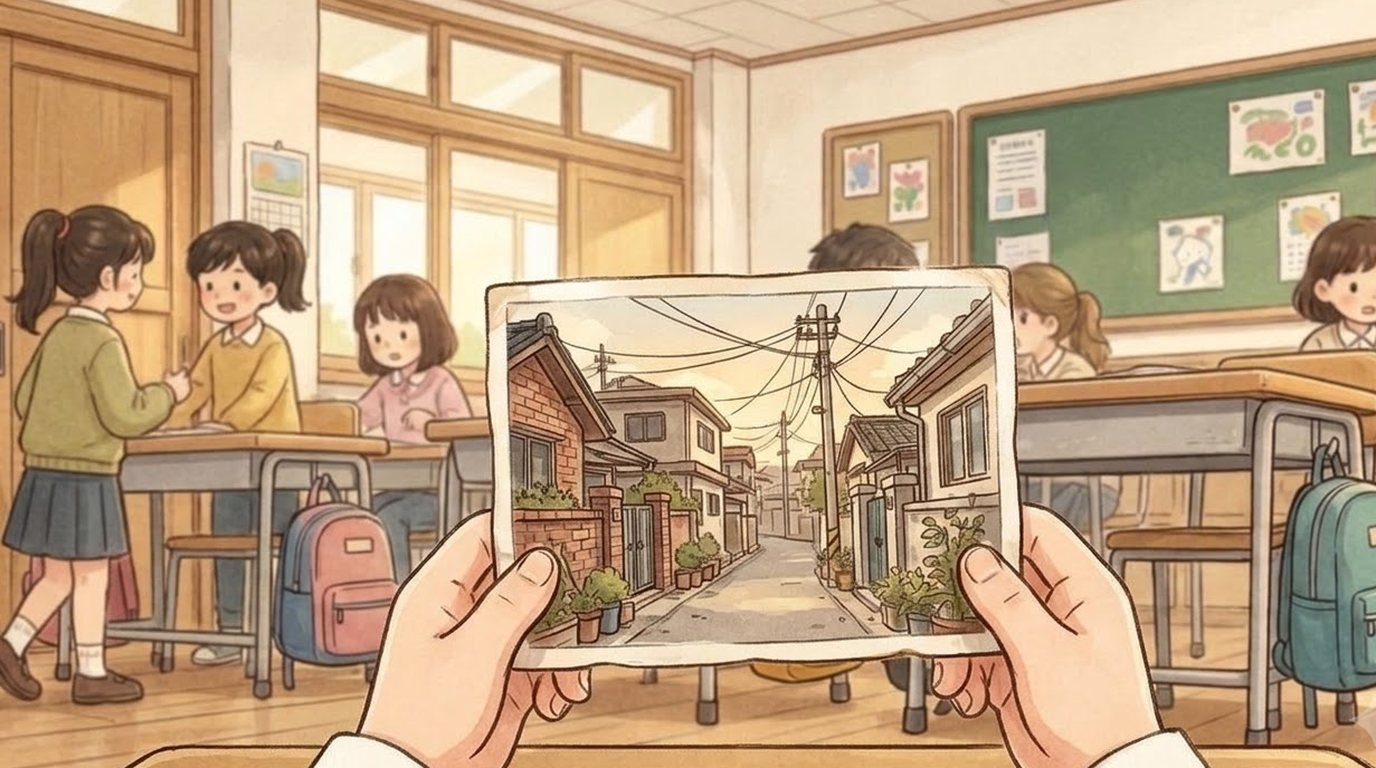
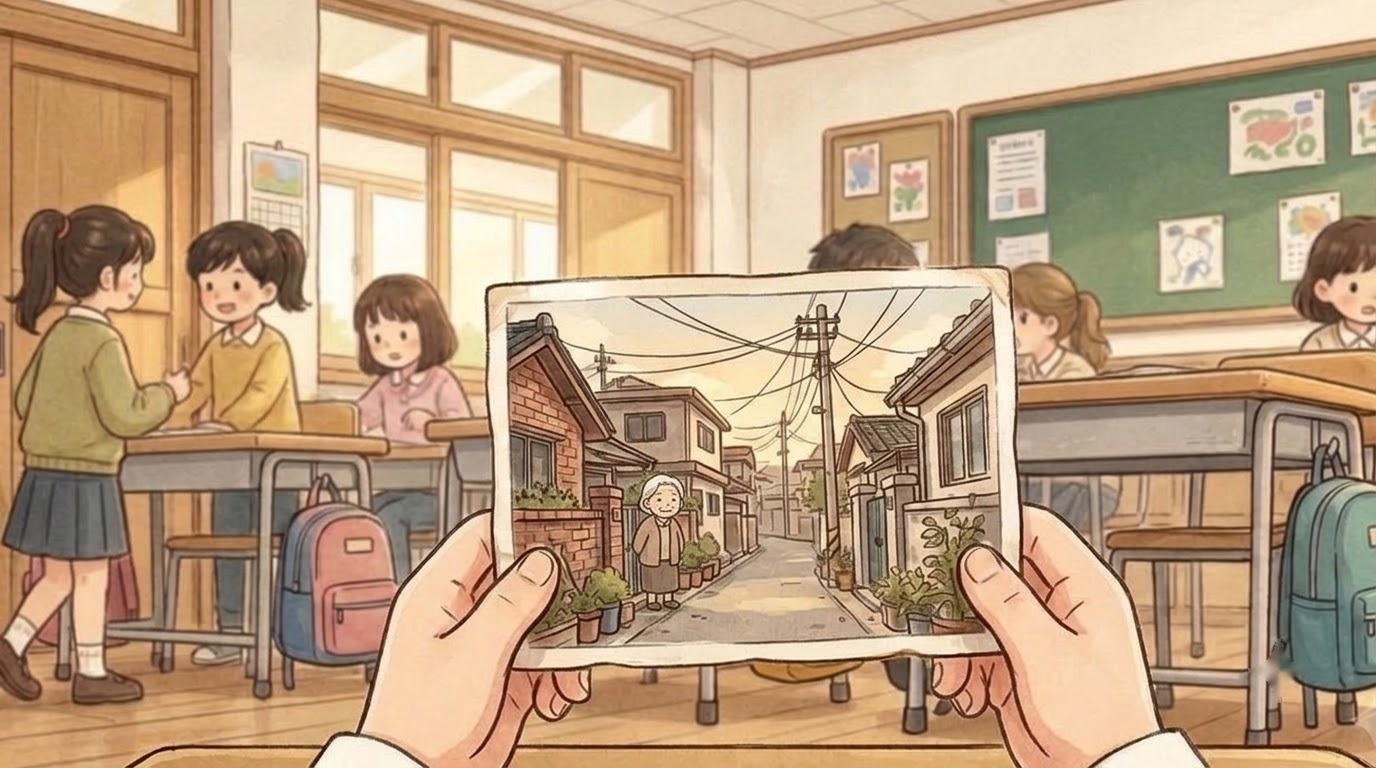
하람 8일차 고향 사진(haram_d08_photo): 사진 속 할머니 집 대문 앞에 할머니 추가(「저분이 할머니야?」, 그림 세션 Flow·메인 비교)

diff --git a/index.html b/index.html
@@ -119,14 +119,14 @@ body,button{word-break:keep-all;overflow-wrap:break-word}
 <div id="fader"></div>
 <script>
 // same address, newest version: if the page this phone has kept is older than the one online, fetch the new one and reopen
-const BUILD='1109102517';
+const BUILD='1109103443';
 try{fetch(location.pathname,{cache:'no-store'}).then(r=>r.text()).then(t=>{const m=t.match(/const BUILD='(\d+)'/);if(m&&m[1]!==BUILD&&sessionStorage.getItem('upd')!==m[1]){sessionStorage.setItem('upd',m[1]);fetch(location.pathname,{cache:'reload'}).then(()=>location.reload())}}).catch(()=>{})}catch(e){}
 </script>
-<script src="i18n.js?v=1109102517"></script>
-<script src="i18n_prologue_v2.js?v=1109102517"></script>
-<script src="day2/i18n_engine.js?v=1109102517"></script>
-<script src="day2/data.js?v=1109102517"></script>
-<script src="day3/data.js?v=1109102517"></script>
+<script src="i18n.js?v=1109103443"></script>
+<script src="i18n_prologue_v2.js?v=1109103443"></script>
+<script src="day2/i18n_engine.js?v=1109103443"></script>
+<script src="day2/data.js?v=1109103443"></script>
+<script src="day3/data.js?v=1109103443"></script>
 <script>
 // ---------- data ----------
 const MW=1672,MH=941,KID=180;
@@ -569,36 +569,36 @@ function pickHero(){const m=document.getElementById('modal'),c=document.getEleme
  c.innerHTML=`<h2>${tr('전학생 반장되기')}</h2><p>${tr('한국말이 아직 서툰 전학생,<br>반장 선거에 나가다.')}</p><p style="margin-top:14px">${tr('누구로 할까요?')}</p>${(()=>{const s=loadSave();return s&&s.day>=2&&s.mode===UI+'-'+LANG?`<p><button class="big" id="cont">${tr('{n}일차부터 이어 하기').replace('{n}',s.day)}</button></p>`:''})()}<div class="pick heroes"><button data-h="hero_f"><img src="faces/hero_f_smile.jpg" alt="여자 주인공">${heroName(1)}</button><button data-h="hero_m"><img src="faces/hero_m_smile.jpg" alt="남자 주인공">${heroName(0)}</button></div>`;
  m.classList.add('on');{const cb=document.getElementById('cont');if(cb)cb.onclick=()=>{const s=loadSave();HERO=s.hero;Object.assign(HEART,s.heart||{});(s.found||[]).forEach(k=>FOUND.add(k));HEART_D1={...HEART};chime();(typeof contGame==='function'?contGame(s):startDay(Math.min(s.day,Object.keys(window.D3||{}).length?3:2)))}}c.querySelectorAll('.pick button').forEach(b=>b.onclick=()=>{HERO=b.dataset.h;m.classList.remove('on');chime();bgm('day');load('home_am');say([['nar','','이사 온 다음 날 아침. 아직 풀지 못한 상자들이 쌓여 있다.'],['think','sad','(오늘부터 새 학교야. 여기 말도 아직 서툰데…….)'],['think','smile','({m}한테 인사하고 학교 가야지.)']],morning)})}
 </script>
-<script src="day2/engine.js?v=1109102517"></script>
-<script src="day2/ep_minho.js?v=1109102517"></script>
-<script src="day2/meet.js?v=1109102517"></script>
-<script src="day2/ep_sua.js?v=1109102517"></script>
-<script src="day2/ep_hangyeol.js?v=1109102517"></script>
-<script src="day2/ep_siwoo.js?v=1109102517"></script>
-<script src="day2/ep_haram.js?v=1109102517"></script>
-<script src="day2/ep_jiho.js?v=1109102517"></script>
-<script src="day2/ep_hyeeun.js?v=1109102517"></script>
-<script src="day2/ep_haneul.js?v=1109102517"></script>
-<script src="day2/ep_junho.js?v=1109102517"></script>
-<script src="day2/ep_yuna.js?v=1109102517"></script>
-<script src="day2/ep_yena.js?v=1109102517"></script>
-<script src="day2/ep_haeun.js?v=1109102517"></script>
-<script src="day2/ep_youngmin.js?v=1109102517"></script>
-<script src="day2/ep_seah.js?v=1109102517"></script>
-<script src="day2/ep_jihoon.js?v=1109102517"></script>
-<script src="words_ja_ru.js?v=1109102517"></script>
-<script src="day2/mybag.js?v=1109102517"></script>
-<script src="day2/wordpics.js?v=1109102517"></script>
-<script src="day2/spots.js?v=1109102517"></script>
-<script src="day2/textfit.js?v=1109102517"></script>
-<script src="day2/tester.js?v=1109102517"></script>
-<script src="day2/ux.js?v=1109102517"></script>
-<script src="day2/tapword.js?v=1109102517"></script>
-<script src="day2/review.js?v=1109102517"></script>
-<script src="day2/plane.js?v=1109102517"></script>
-<script src="day2/bubble.js?v=1109102517"></script>
-<script src="day2/ep_ending.js?v=1109102517"></script>
-<script src="day2/ending.js?v=1109102517"></script>
+<script src="day2/engine.js?v=1109103443"></script>
+<script src="day2/ep_minho.js?v=1109103443"></script>
+<script src="day2/meet.js?v=1109103443"></script>
+<script src="day2/ep_sua.js?v=1109103443"></script>
+<script src="day2/ep_hangyeol.js?v=1109103443"></script>
+<script src="day2/ep_siwoo.js?v=1109103443"></script>
+<script src="day2/ep_haram.js?v=1109103443"></script>
+<script src="day2/ep_jiho.js?v=1109103443"></script>
+<script src="day2/ep_hyeeun.js?v=1109103443"></script>
+<script src="day2/ep_haneul.js?v=1109103443"></script>
+<script src="day2/ep_junho.js?v=1109103443"></script>
+<script src="day2/ep_yuna.js?v=1109103443"></script>
+<script src="day2/ep_yena.js?v=1109103443"></script>
+<script src="day2/ep_haeun.js?v=1109103443"></script>
+<script src="day2/ep_youngmin.js?v=1109103443"></script>
+<script src="day2/ep_seah.js?v=1109103443"></script>
+<script src="day2/ep_jihoon.js?v=1109103443"></script>
+<script src="words_ja_ru.js?v=1109103443"></script>
+<script src="day2/mybag.js?v=1109103443"></script>
+<script src="day2/wordpics.js?v=1109103443"></script>
+<script src="day2/spots.js?v=1109103443"></script>
+<script src="day2/textfit.js?v=1109103443"></script>
+<script src="day2/tester.js?v=1109103443"></script>
+<script src="day2/ux.js?v=1109103443"></script>
+<script src="day2/tapword.js?v=1109103443"></script>
+<script src="day2/review.js?v=1109103443"></script>
+<script src="day2/plane.js?v=1109103443"></script>
+<script src="day2/bubble.js?v=1109103443"></script>
+<script src="day2/ep_ending.js?v=1109103443"></script>
+<script src="day2/ending.js?v=1109103443"></script>
 <script>
 // the goal shows big for a few seconds, then folds into a small pill (tap it to open it again)
 {const g=document.getElementById('goal');let t=null;const big=()=>{g.classList.remove('mini');clearTimeout(t);t=setTimeout(()=>g.classList.add('mini'),4000)};
